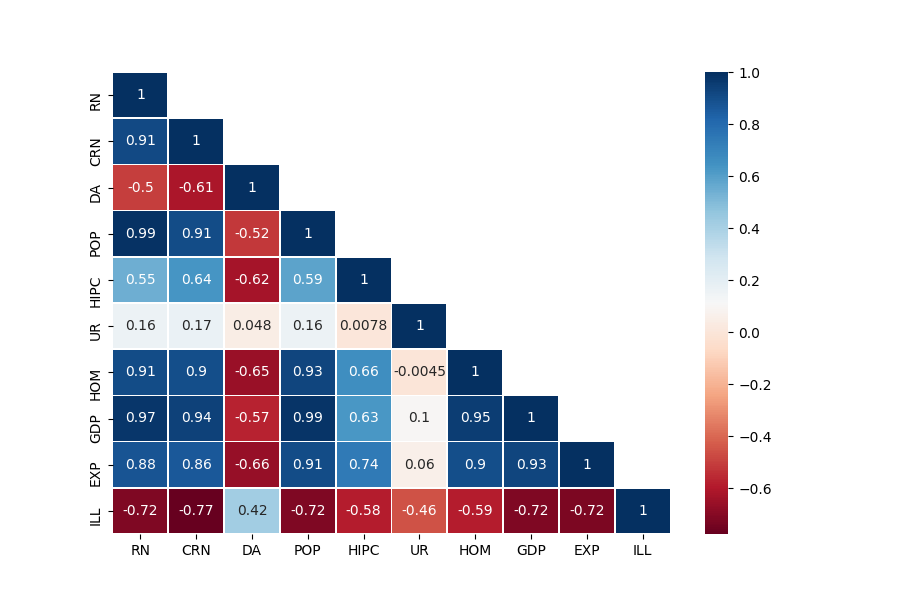
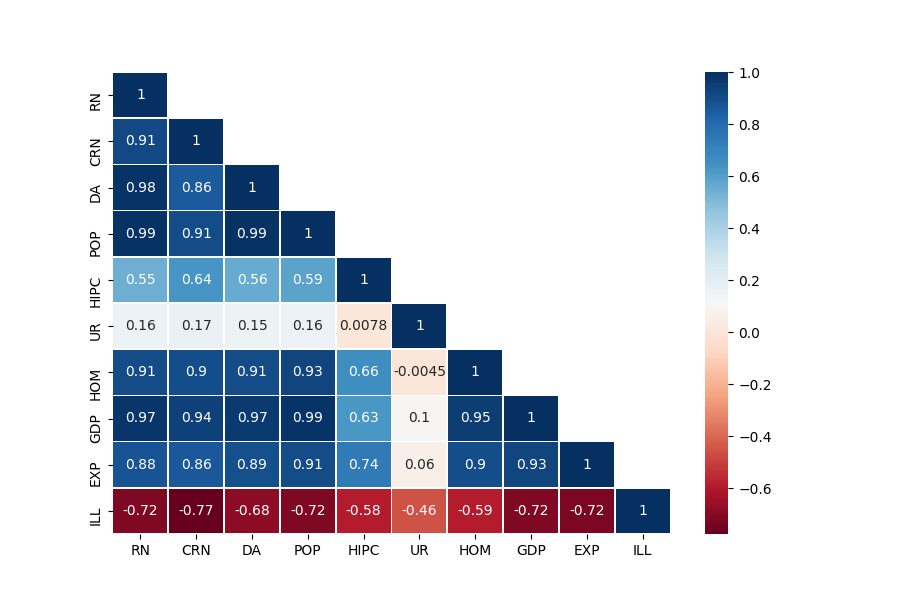
Correçao do valor inicial cumulativo

Changed region(s): [[0.1244, 0.27, 0.3111, 0.9]]

diff --git a/corr_analisys.py b/corr_analisys.py
@@ -19,7 +19,7 @@ columns_format = {
  
 
 def main():
-    var = 'jan'
+    var = 'set'
     df = pd.read_csv('dados/variaveis_' + var + '_2020_pa.csv')
     df = df.drop(columns=['ano'])
     ACC = True
@@ -34,7 +34,7 @@ def main():
     df.columns = cols
 
     if ACC:
-        x_0 = 267393.0285
+        x_0 = 267393.0285 - df['DA'][:-1].sum()
         val_acc = []
         for i, val in enumerate(df['DA']):
             val_acc.append(sum(df['DA'][:i+1]) + x_0)
